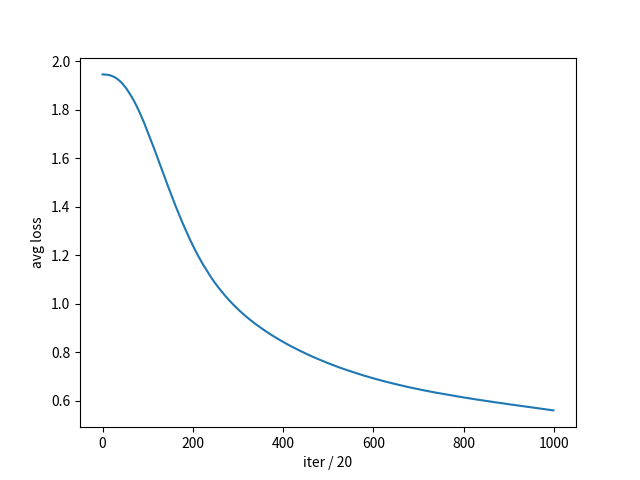
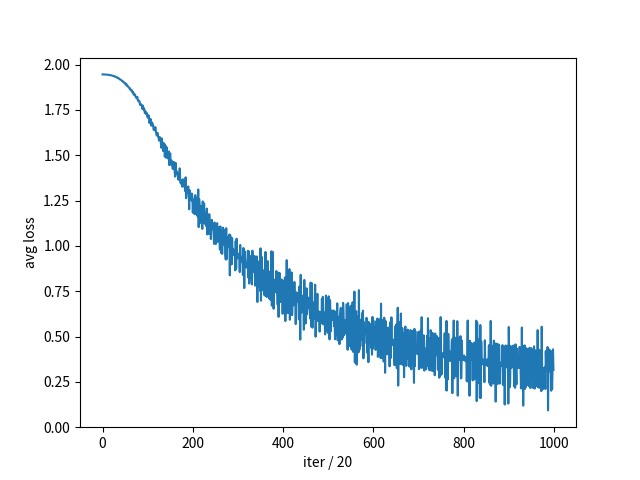
chap3

diff --git a/zero_nlp/trainers.py b/zero_nlp/trainers.py
@@ -13,7 +13,8 @@ class Trainer:
 
     def fit(self, x, t, max_epoch=10, batch_size=32, eval_interval=20):
         self.eval_interval = eval_interval
-        it_per_epoch = - (- len(x) // batch_size)
+        #it_per_epoch = - (- len(x) // batch_size)
+        it_per_epoch = len(x) // batch_size
         total_loss = []  # print用
 
         start_time = time()
@@ -40,8 +41,9 @@ class Trainer:
                 total_loss.append(loss)
 
                 # 評価
-                if (it + 1) % eval_interval == 0 or \
-                   (it_per_epoch < eval_interval and it == it_per_epoch - 1):
+                #if (it + 1) % eval_interval == 0 or \
+                #   (it_per_epoch < eval_interval and it == it_per_epoch - 1):
+                if it % eval_interval == 0:
                     avg_loss = np.mean(total_loss)
                     elapsed_time = time() - start_time
                     print('epoch: {0}, iter: {1}/{2}, time: {3:.3f}[s], avg loss: {4}'.format( \

diff --git a/zero_nlp/chap3.py b/zero_nlp/chap3.py
@@ -3,6 +3,7 @@ from util import preprocess, create_contexts_target, convert_one_hot
 from trainers import Trainer
 from simple_cbow import SimpleCbow
 from optimizers import Adam
+#from optimizers import SGD
 
 if __name__ == '__main__':
 
@@ -21,6 +22,7 @@ if __name__ == '__main__':
     # モデル
     model = SimpleCbow(vocab_size, hidden_size)
     optimizer = Adam()
+    #optimizer = SGD()
 
     # 学習
     trainer = Trainer(model, optimizer)
@@ -28,3 +30,7 @@ if __name__ == '__main__':
 
     # plot
     trainer.plot('chap3.png')
+
+    # 単語の分散表現print
+    for word, word_id in word_to_id.items():
+        print('{0} {1}'.format(word, model.word_vecs[word_id]))
